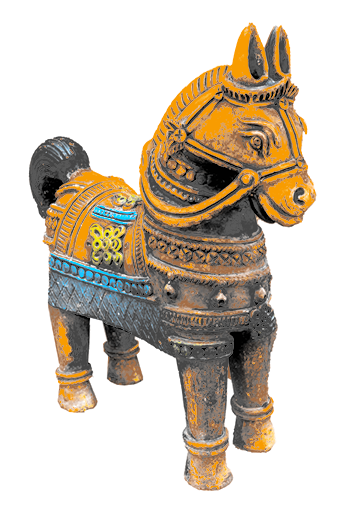
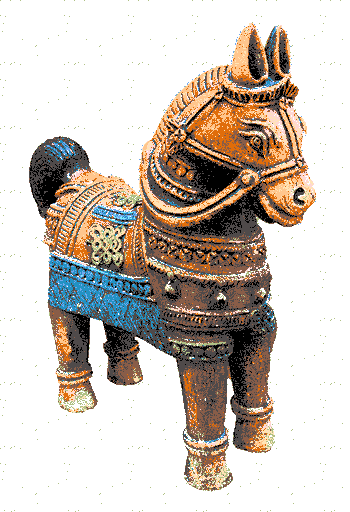
docs: replace horse comparison images with Punchy/Commercial archetype
Both flat and dithered renders, replacing warm-sovereign versions.

diff --git a/README.md b/README.md
@@ -16,7 +16,7 @@ The core engine is **100% pure JavaScript with zero external dependencies**, so 
   </tr>
   <tr>
     <td><img src="docs/images/horse-original.jpg" width="280" alt="Original photo"></td>
-    <td><img src="docs/images/horse-warm-sovereign-flat.png" width="280" alt="6-color flat separation"></td>
+    <td><img src="docs/images/horse-punchy-commercial-flat.png" width="280" alt="Punchy/Commercial flat separation"></td>
     <td><img src="docs/images/horse-punchy-commercial-dithered.png" width="280" alt="Punchy/Commercial dithered separation"></td>
   </tr>
 </table>
